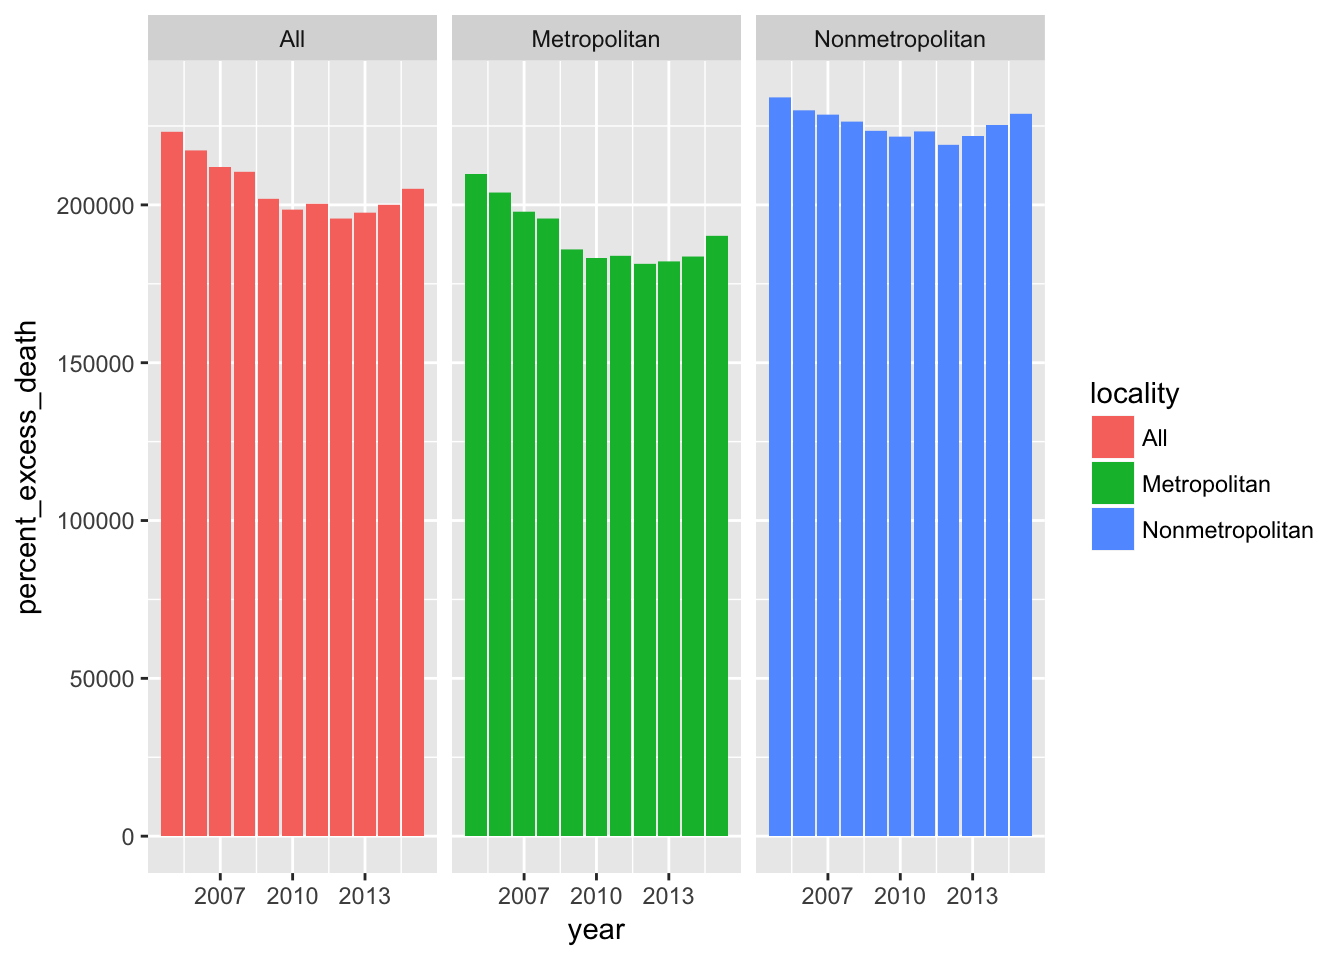
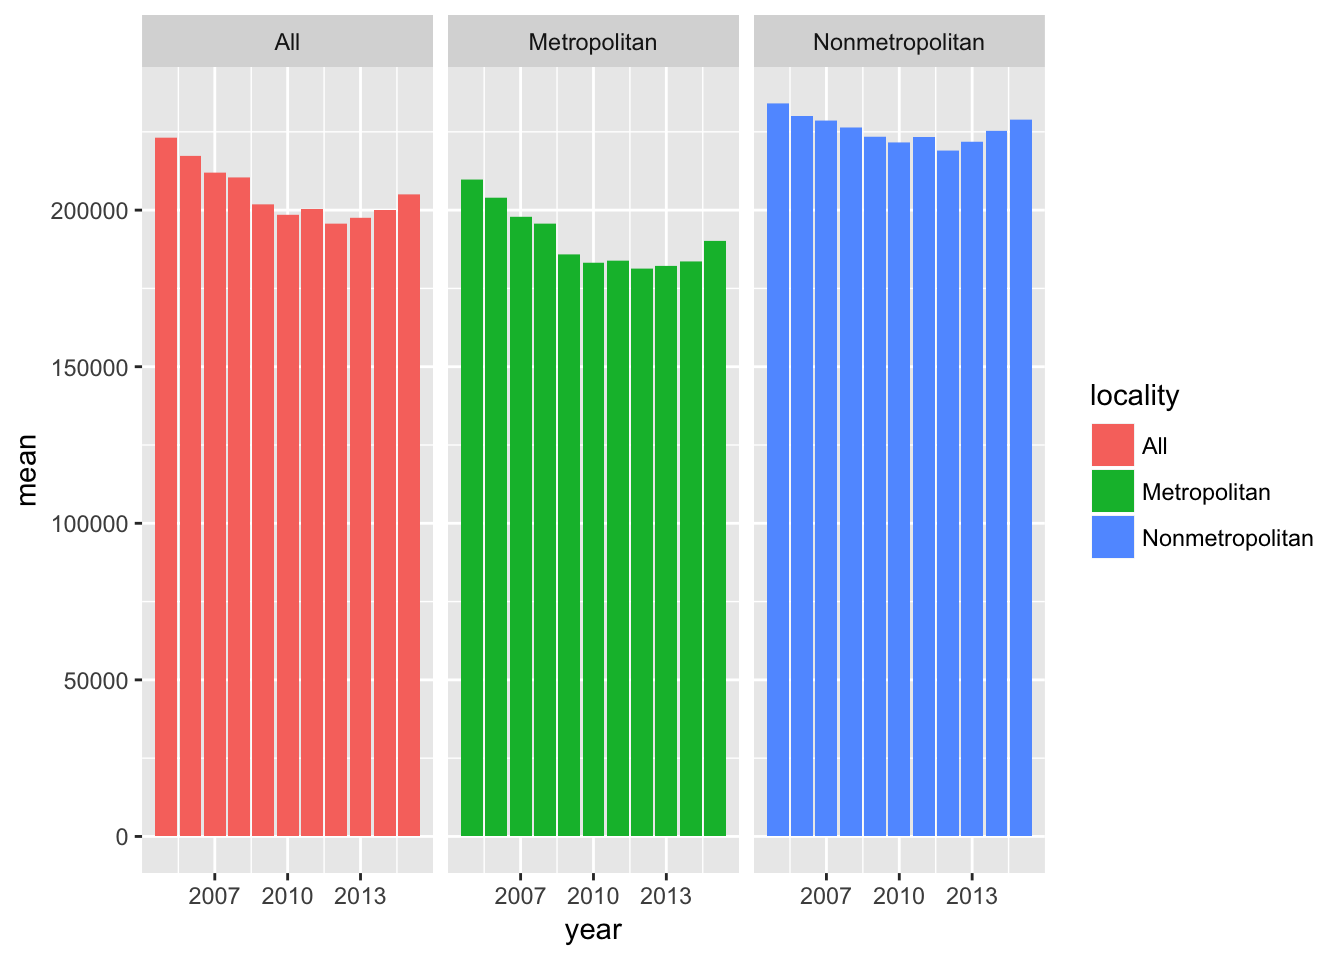
change of dataset and plot on Ginny's part.

diff --git a/p8105_final_project.html b/p8105_final_project.html
@@ -267,8 +267,13 @@ summary(mortality_lm)</code></pre>
 ## Multiple R-squared:  0.01821,    Adjusted R-squared:  0.0182 
 ## F-statistic:  1778 on 2 and 191745 DF,  p-value: &lt; 2.2e-16</code></pre>
 <p>&lt;&lt;&lt;&lt;&lt;&lt;&lt; HEAD</p>
-<pre class="r"><code>gp_cod_data = cod_data
-ggplot(gp_cod_data, aes(x = year, y = percent_excess_death, fill = locality)) + geom_bar(stat = &quot;identity&quot;)+
+<pre class="r"><code>### Question of concern: If percent excess death has significant difference between metro and non-metro groups.
+gp_cod_data = cod_data %&gt;%
+  mutate(percent_excess_death = as.numeric(percent_excess_death)) %&gt;%
+  group_by(locality, year)%&gt;% 
+  mutate(mean = mean(percent_excess_death)) #doesn&#39;t work. Ask TA.
+
+ggplot(gp_cod_data, aes(x = year, y = mean, fill = locality)) + geom_bar(stat = &quot;identity&quot;)+
 facet_grid(. ~ locality) </code></pre>
 <p><img src="p8105_final_project_files/figure-html/wp2241-1.png" width="672" /></p>
 <p>=======</p>
